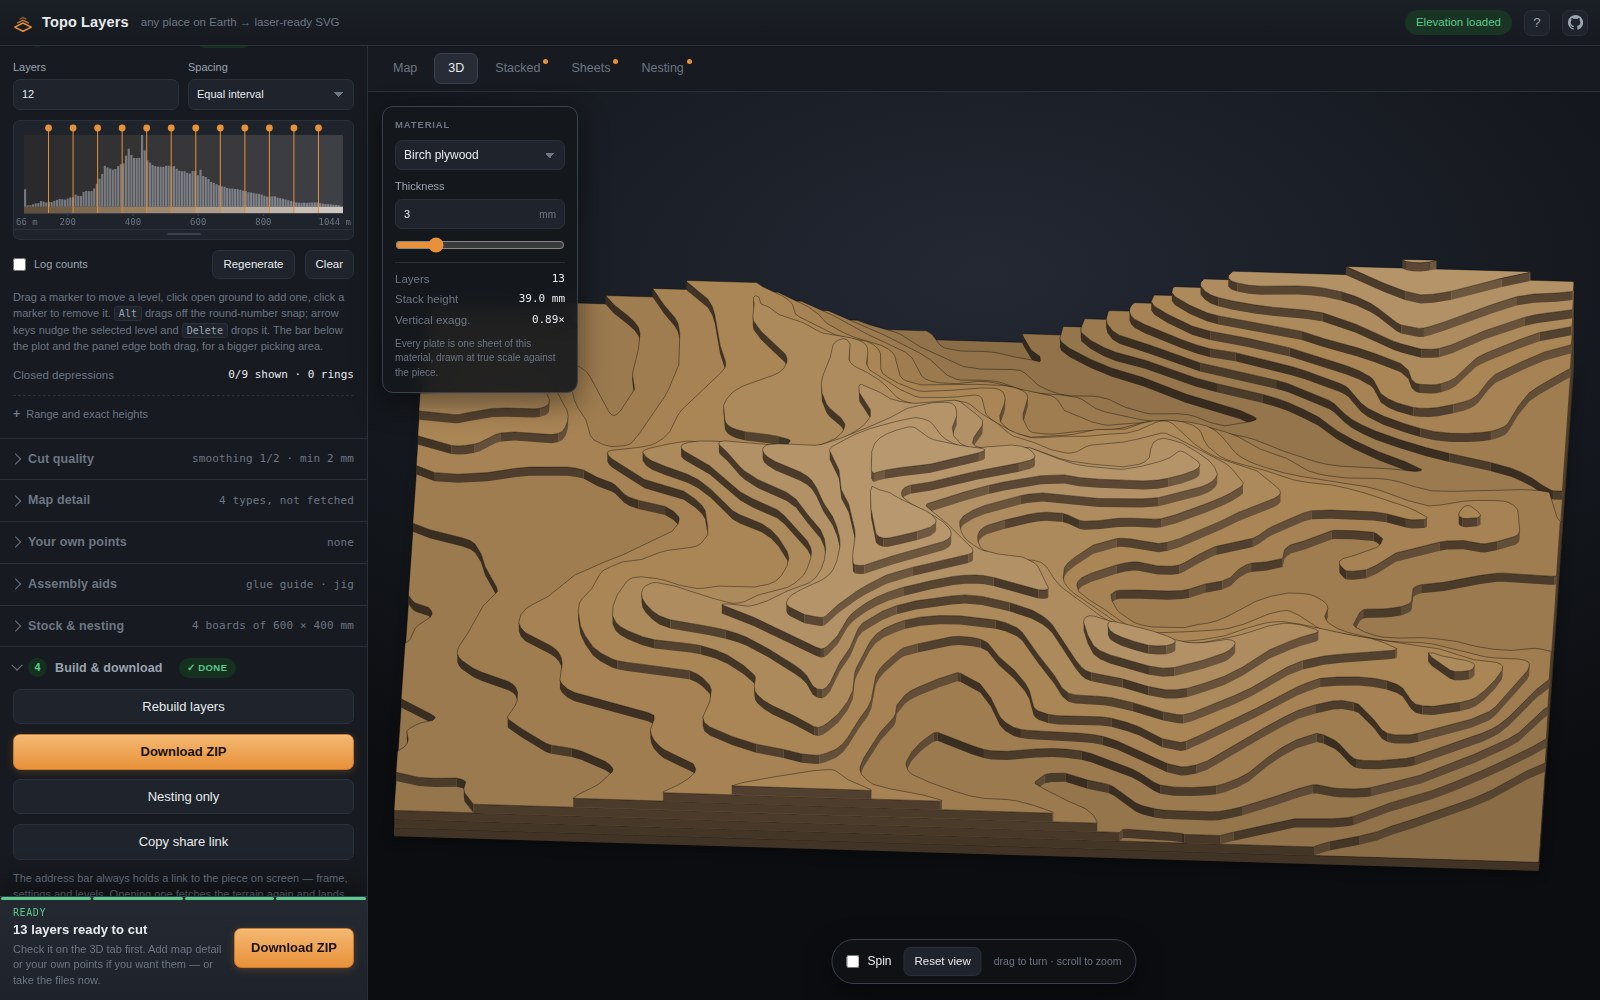
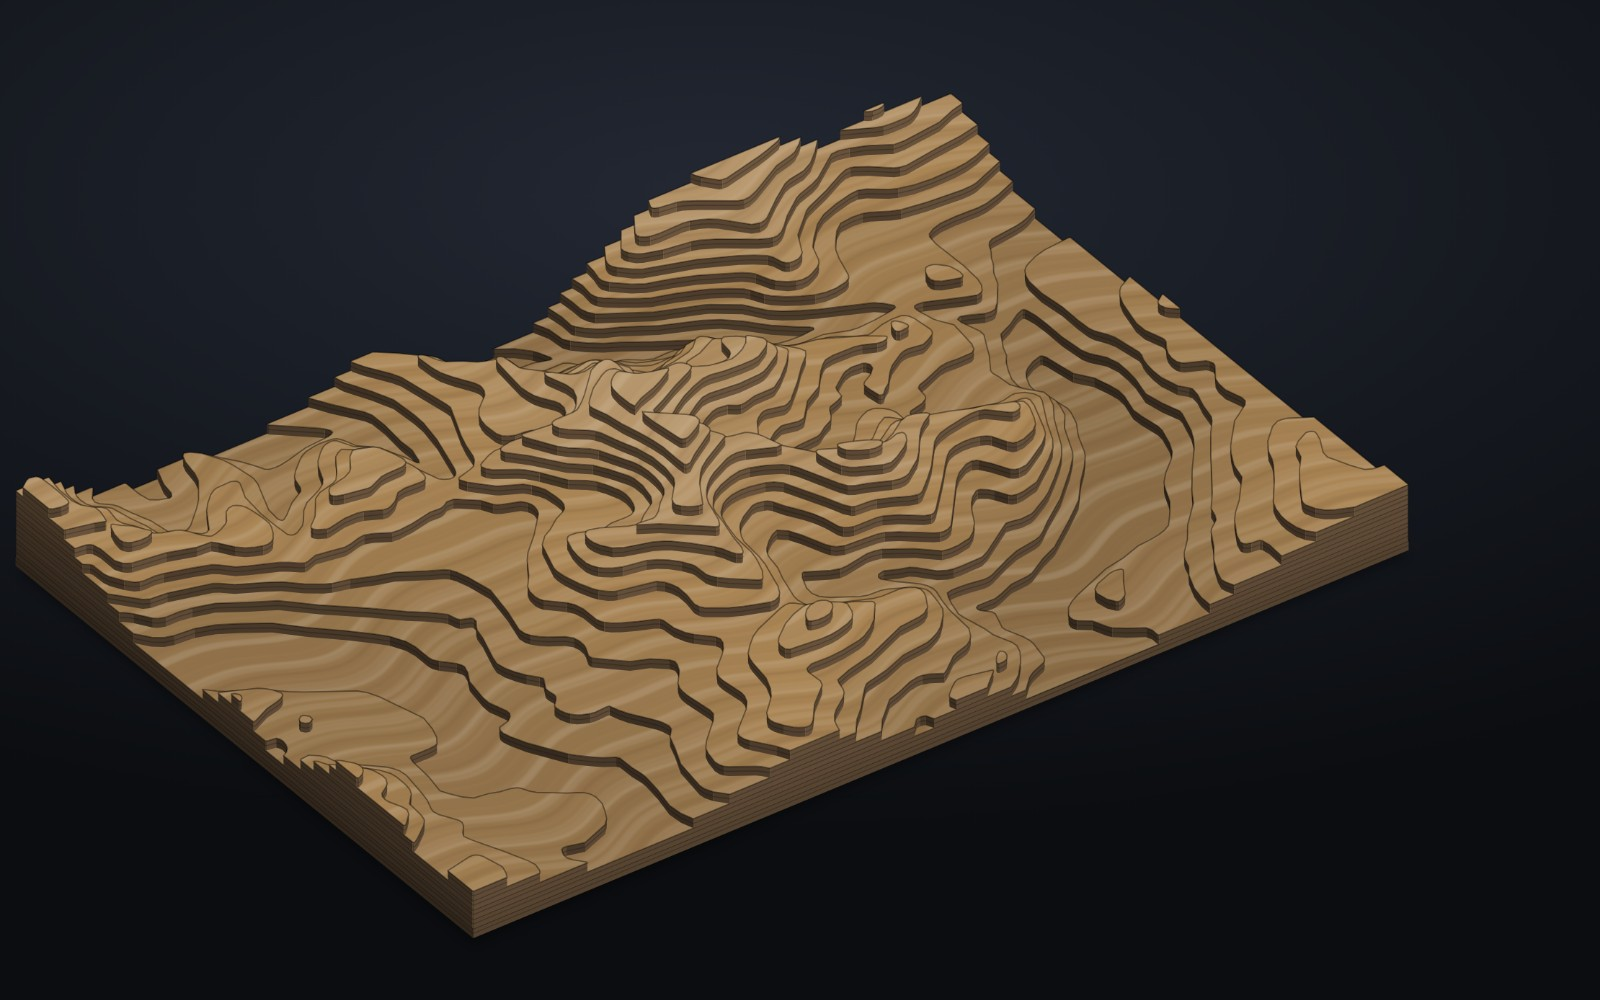
Show the piece the app actually makes now
The three images the repo and every shared link lead with were taken before the
panel was rebuilt and before the plates had any grain on them: the sidebar in
them no longer exists, and the 3D hero showed flat tinted card where the app now
draws plywood. The first thing anyone saw of this was a version of it that is
gone.

All three are regenerated from the running app against real data -- Snowdon at
58-1045 m from AWS Terrain Tiles, the topographic basemap, and a live Overpass
query that brought back 575 streams, 43 lakes and 76 named places, 25 of which
are engraved and 15 of those split across the plate edge they straddle.

  hero-3d.jpg             thirteen layers of 3 mm birch, grain on every face and
                          veneer laminations down the cut edges
  screenshot-map.jpg      step one, the frame over Yr Wyddfa on the topo basemap
  screenshot-engraved.jpg the stack from above, Welsh names on the layers they
                          fall on

The caption said 300 x 200 mm; the piece is 300 x 206, because the frame drives
the sheet height. It says so now.

Claude-Session: https://claude.ai/code/session_01P5cjTf3xSiHPARbv5bTWii

diff --git a/README.md b/README.md
@@ -14,7 +14,7 @@ install — it all runs in your browser.
   <img src="assets/hero-3d.jpg" alt="Snowdon as thirteen stacked plywood layers, previewed in 3D" width="880">
 </a>
 
-<sub>Snowdon, 300 × 200 mm, thirteen layers of 3 mm birch ply.</sub>
+<sub>Snowdon, 300 × 206 mm, thirteen layers of 3 mm birch ply — the real thing, from the app.</sub>
 
 </div>
 
